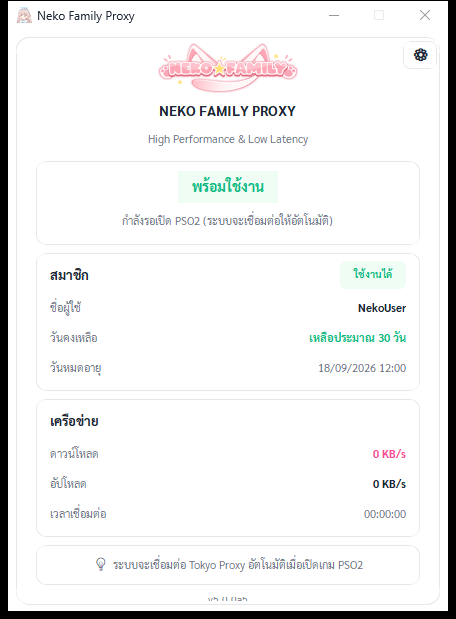
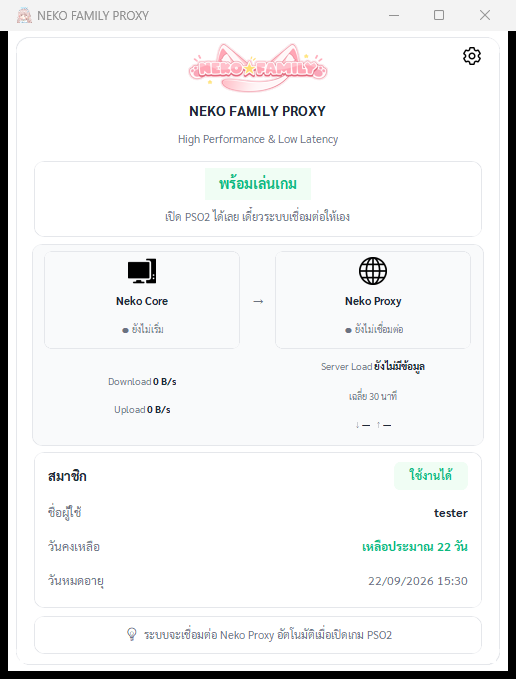
fix(dashboard): improve account panel typography and spacing

diff --git a/launcher/src/neko_launcher/ui/views/dashboard_view.py b/launcher/src/neko_launcher/ui/views/dashboard_view.py
@@ -124,10 +124,10 @@ class DashboardView:
         membership_card = card(self.frame)
         membership_card.pack_configure(padx=6, pady=2)
         membership_inner = ctk.CTkFrame(membership_card, fg_color="transparent")
-        membership_inner.pack(fill="x", padx=10, pady=6)
+        membership_inner.pack(fill="x", padx=14, pady=10)
 
         header_row = ctk.CTkFrame(membership_inner, fg_color="transparent")
-        header_row.pack(fill="x", pady=(0, 3))
+        header_row.pack(fill="x", pady=(0, 6))
         ctk.CTkLabel(
             header_row,
             text="สมาชิก",
@@ -137,52 +137,52 @@ class DashboardView:
         self._tier_badge = ctk.CTkLabel(
             header_row,
             text="ใช้งานได้",
-            font=ctk.CTkFont(family=FONT_FAMILY, size=10, weight="bold"),
+            font=ctk.CTkFont(family=FONT_FAMILY, size=11, weight="bold"),
             text_color=PALETTE.success,
             fg_color=PALETTE.success_surface,
             corner_radius=6,
-            padx=8,
-            pady=1,
+            padx=10,
+            pady=2,
         )
         self._tier_badge.pack(side="right")
 
         user_row = ctk.CTkFrame(membership_inner, fg_color="transparent")
-        user_row.pack(fill="x", pady=1)
+        user_row.pack(fill="x", pady=3)
         ctk.CTkLabel(
             user_row, text="ชื่อผู้ใช้",
-            font=ctk.CTkFont(family=FONT_FAMILY, size=11),
+            font=ctk.CTkFont(family=FONT_FAMILY, size=12),
             text_color=PALETTE.text_muted,
         ).pack(side="left")
         ctk.CTkLabel(
             user_row, textvariable=account_var,
-            font=ctk.CTkFont(family=FONT_FAMILY, size=11, weight="bold"),
+            font=ctk.CTkFont(family=FONT_FAMILY, size=12, weight="bold"),
             text_color=PALETTE.text,
         ).pack(side="right")
 
         days_row = ctk.CTkFrame(membership_inner, fg_color="transparent")
-        days_row.pack(fill="x", pady=1)
+        days_row.pack(fill="x", pady=3)
         ctk.CTkLabel(
             days_row, text="วันคงเหลือ",
-            font=ctk.CTkFont(family=FONT_FAMILY, size=11),
+            font=ctk.CTkFont(family=FONT_FAMILY, size=12),
             text_color=PALETTE.text_muted,
         ).pack(side="left")
         self._entitlement_days_label = ctk.CTkLabel(
             days_row, textvariable=entitlement_days_var,
-            font=ctk.CTkFont(family=FONT_FAMILY, size=11, weight="bold"),
+            font=ctk.CTkFont(family=FONT_FAMILY, size=12, weight="bold"),
             text_color=PALETTE.success,
         )
         self._entitlement_days_label.pack(side="right")
 
         expiry_row = ctk.CTkFrame(membership_inner, fg_color="transparent")
-        expiry_row.pack(fill="x", pady=1)
+        expiry_row.pack(fill="x", pady=3)
         ctk.CTkLabel(
             expiry_row, text="วันหมดอายุ",
-            font=ctk.CTkFont(family=FONT_FAMILY, size=11),
+            font=ctk.CTkFont(family=FONT_FAMILY, size=12),
             text_color=PALETTE.text_muted,
         ).pack(side="left")
         ctk.CTkLabel(
             expiry_row, textvariable=entitlement_expiry_var,
-            font=ctk.CTkFont(family=FONT_FAMILY, size=11),
+            font=ctk.CTkFont(family=FONT_FAMILY, size=12),
             text_color=PALETTE.text_muted,
         ).pack(side="right")
 
@@ -192,7 +192,7 @@ class DashboardView:
         guidance_card = card(self.frame)
         guidance_card.pack_configure(padx=6, pady=2)
         guidance_inner = ctk.CTkFrame(guidance_card, fg_color="transparent")
-        guidance_inner.pack(fill="x", padx=10, pady=5)
+        guidance_inner.pack(fill="x", padx=10, pady=6)
         ctk.CTkLabel(
             guidance_inner,
             text="💡 ระบบจะเชื่อมต่อ Neko Proxy อัตโนมัติเมื่อเปิดเกม PSO2",

diff --git a/launcher/tests/ui/test_app_window.py b/launcher/tests/ui/test_app_window.py
@@ -1548,7 +1548,7 @@ def test_close_stops_telemetry_client(tmp_path: Path) -> None:
 def test_main_window_is_responsive_and_landscape_first(monkeypatch: Any) -> None:
     source = Path(__file__).parents[2].joinpath('src', 'neko_launcher', 'ui', 'app_window.py').read_text(encoding='utf-8')
     assert 'self.root.resizable(True, True)' in source
-    assert 'self.root.minsize(480, 500)' in source
+    assert 'self.root.minsize(480, 580)' in source
 
 
 # A18_NATIVE_MINIMIZE
@@ -1591,8 +1591,8 @@ def test_a18_window_contract_uses_compact_dashboard_and_exact_title() -> None:
     from pathlib import Path
     source = Path(__file__).parents[2].joinpath("src", "neko_launcher", "ui", "app_window.py").read_text(encoding="utf-8")
     assert 'self.root.title("NEKO FAMILY PROXY")' in source
-    assert 'self.root.minsize(480, 500)' in source
-    assert 'self.root.geometry("500x520")' in source
+    assert 'self.root.minsize(480, 580)' in source
+    assert 'self.root.geometry("500x640")' in source
     assert 'controls.pack(side="right", anchor="ne")' in source
     assert 'controls, "Hide"' not in source
 
@@ -1604,8 +1604,8 @@ def test_a21_dashboard_geometry_is_compact_and_single_step() -> None:
         "src", "neko_launcher", "ui", "app_window.py"
     ).read_text(encoding="utf-8")
     program = source.split("def _show_program_view")[1].split("# Password dialog")[0]
-    assert 'width, height = (500, 520)' in program
-    assert 'self.root.minsize(480, 500)' in program
+    assert 'width, height = (500, 640)' in program
+    assert 'self.root.minsize(480, 580)' in program
     assert program.count("self.root.geometry(") == 1
     assert "center_window(self.root" not in program
     assert 'getattr(self, "_active_view", None) == "program"' in program
@@ -1668,8 +1668,8 @@ def test_a25_dashboard_is_more_compact() -> None:
         "src", "neko_launcher", "ui", "app_window.py"
     ).read_text(encoding="utf-8")
     program = source.split("def _show_program_view")[1].split("# Password dialog")[0]
-    assert 'width, height = (500, 520)' in program
-    assert 'self.root.minsize(480, 500)' in program
+    assert 'width, height = (500, 640)' in program
+    assert 'self.root.minsize(480, 580)' in program
 
 
 # A25_REGISTER_CTA

diff --git a/launcher/src/neko_launcher/ui/app_window.py b/launcher/src/neko_launcher/ui/app_window.py
@@ -150,9 +150,9 @@ class AppWindow:
                 pass
 
         # Landscape-first geometry
-        self.root.minsize(480, 500)
-        self.root.geometry("500x520")
-        self._window_size = (500, 520)
+        self.root.minsize(480, 580)
+        self.root.geometry("500x640")
+        self._window_size = (500, 640)
 
         self._status = tk.StringVar(value="กำลังเตรียมข้อมูล…")
         self._account = tk.StringVar(value="")
@@ -558,8 +558,8 @@ class AppWindow:
         if hasattr(self, "_settings_button"):
             self._settings_button.pack(side="left")
         if hasattr(self, "root") and hasattr(self.root, "resizable"):
-            width, height = (500, 520)
-            self.root.minsize(480, 500)
+            width, height = (500, 640)
+            self.root.minsize(480, 580)
             self.root.resizable(True, True)
             self.root.maxsize(
                 self.root.winfo_screenwidth(),

diff --git a/launcher/src/neko_launcher/__init__.py b/launcher/src/neko_launcher/__init__.py
@@ -1,4 +1,4 @@
 """Neko Family Launcher V2."""
 
 __all__ = ["__version__"]
-__version__ = "5.0.0a29"
+__version__ = "5.0.0a30"

diff --git a/docs/current/README.md b/docs/current/README.md
@@ -2,22 +2,19 @@
 
 ```text
 DOCUMENT:                       docs/current/README.md
-STATUS:                         PRE_FREEZE_VALIDATION_PASS (5.0.0a29 CANDIDATE)
-PRODUCT_BASELINE:               CLOSED BETA CANDIDATE (5.0.0a29 — NOT FROZEN)
-CURRENT_WORKSTREAM:             PRE-FREEZE VALIDATION GATE (5.0.0a29)
+STATUS:                         UI_POLISH_PASS (5.0.0a30 CANDIDATE)
+PRODUCT_BASELINE:               CLOSED BETA CANDIDATE (5.0.0a30 — NOT FROZEN)
+CURRENT_WORKSTREAM:             PRE-FREEZE UI POLISH (5.0.0a30)
 ACTIVE_DEV_BRANCH:              feature/dashboard-redesign
-ACTIVE_DEV_HEAD:                891e5fc6a97b79ac49c88c6174ff196206d2628e
-LAUNCHER_SOURCE_COMMIT:         084289e8ed1b7e927e29e9f1189189ad37913297
-INSTALLER_SOURCE_COMMIT:        891e5fc6a97b79ac49c88c6174ff196206d2628e
+ACTIVE_DEV_HEAD:                17540c26262bbd5dcf37bc33a2a2038e42698ad5
+LAUNCHER_SOURCE_VERSION:        5.0.0a30
+CANDIDATE_LAUNCHER_EXE_FILE:    NekoLauncher.exe
+CANDIDATE_LAUNCHER_EXE_SIZE:    30176905 bytes
+CANDIDATE_LAUNCHER_EXE_SHA256:  f43354d00fc28642fb1f3e038297bc7d5fa77d4bc350ef3cd8352c3ca27ad850
 MAIN_HEAD:                      bde8389 (origin/main)
 BETA_HEAD:                      c9ab125 (origin/beta; previous Closed Beta baseline)
 CORE_AUTHORITY_BRANCH:          feature/neko-auth-lite-v1-core
 CORE_HEAD:                      33f97ae0110075089f39b1e123890f931417d907
-LAUNCHER_SOURCE_VERSION:        5.0.0a29
-CANDIDATE_LAUNCHER_EXE_SHA256:  0a24b1945d6c390b760d37940eee929100121d88a25ad27d6874f234a8ca0ebb
-CANDIDATE_INSTALLER_FILE:       NekoFamilyProxy-Beta-Setup.exe
-CANDIDATE_INSTALLER_SIZE:       104213403 bytes
-CANDIDATE_INSTALLER_SHA256:     7e6450b904b9d879f8041f652fcc2c3ed8e342252f31b4a8f31aa17c117a3099
 CLEAN_INSTALL:                  PASS
 FIRST_RUN:                      PASS
 AUTH_FLOW:                      PASS
@@ -31,7 +28,7 @@ P1_ISSUES:                      0
 AUTHORITY_UPDATE:               NOT_PERFORMED
 CURRENT_STATUS:                 RELEASE_CANDIDATE_NOT_FROZEN
 FREEZE_READY:                   YES
-NEXT_ACTION:                    Owner final authority freeze and distribution authorization gate
+NEXT_ACTION:                    Review candidate 5.0.0a30 UI polish before freeze
 LAST_VERIFIED:                  2026-08-31 +07:00 (Asia/Bangkok)
 ```
 
